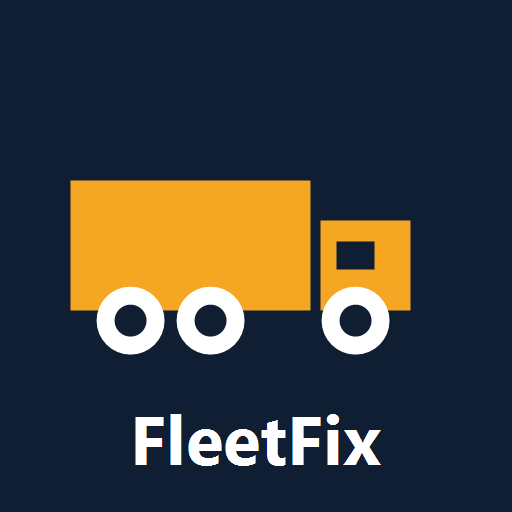
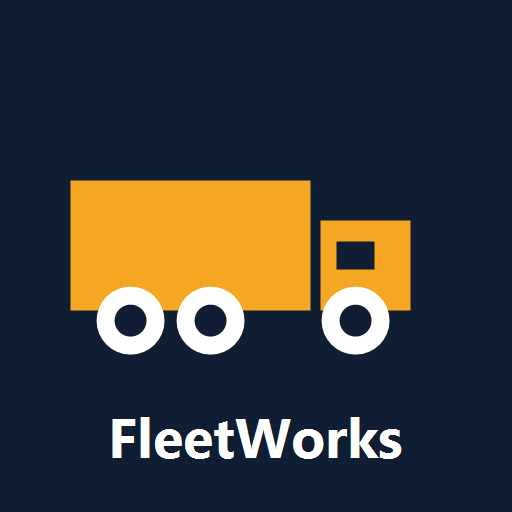
Rebrand FleetFix to FleetWorks Private Limited
Site copy, logo wordmark, icons, emails (fleetworks.in), booking
reference prefixes (FW-/FWV-), manifest and service worker cache.

Changed region(s): [[0.2188, 0.8125, 0.7812, 0.9375]]

diff --git a/partner.html b/partner.html
@@ -3,8 +3,8 @@
 <head>
   <meta charset="UTF-8" />
   <meta name="viewport" content="width=device-width, initial-scale=1.0" />
-  <title>Partner With FleetFix — Vendor &amp; Workshop Onboarding</title>
-  <meta name="description" content="Register your heavy vehicle workshop, tyre shop, battery dealership or mobile mechanic service with FleetFix. Get more jobs, guaranteed payouts and fleet contracts." />
+  <title>Partner With FleetWorks — Vendor &amp; Workshop Onboarding</title>
+  <meta name="description" content="Register your heavy vehicle workshop, tyre shop, battery dealership or mobile mechanic service with FleetWorks. Get more jobs, guaranteed payouts and fleet contracts." />
   <link rel="preconnect" href="https://fonts.googleapis.com" />
   <link rel="preconnect" href="https://fonts.gstatic.com" crossorigin />
   <link href="https://fonts.googleapis.com/css2?family=Poppins:wght@400;500;600;700;800&display=swap" rel="stylesheet" />
@@ -28,7 +28,7 @@
     <div class="container nav-inner">
       <a href="index.html" class="logo">
         <svg viewBox="0 0 24 24" width="34" height="34" fill="none" stroke="currentColor" stroke-width="1.8" stroke-linecap="round" stroke-linejoin="round"><path d="M1 8h12v8H1z"/><path d="M13 10h4l3 3v3h-7"/><circle cx="5.5" cy="17.5" r="1.8"/><circle cx="17.5" cy="17.5" r="1.8"/></svg>
-        <span>Fleet<em>Fix</em></span>
+        <span>Fleet<em>Works</em></span>
       </a>
       <nav class="nav-links" id="navLinks">
         <a href="index.html#services">Services</a>
@@ -53,7 +53,7 @@
     <div class="container hero-inner">
       <div class="hero-text">
         <span class="badge">🤝 500+ Workshops Already Onboard</span>
-        <h1>Grow Your Workshop with <span class="accent">FleetFix</span></h1>
+        <h1>Grow Your Workshop with <span class="accent">FleetWorks</span></h1>
         <p>Join India's fastest-growing heavy vehicle service network. Get a steady stream of trucks, buses and fleet contracts — we bring the customers, you do the work.</p>
         <ul class="hero-points">
           <li>✅ 30+ Jobs/Month on Average</li>
@@ -315,7 +315,7 @@
             </label>
             <label class="consent">
               <input type="checkbox" name="consent" required />
-              <span>I confirm the details are accurate and agree to FleetFix's partner terms, service-quality standards and commission structure.</span>
+              <span>I confirm the details are accurate and agree to FleetWorks's partner terms, service-quality standards and commission structure.</span>
             </label>
             <p class="field-error" id="consentError" hidden>Please accept the partner terms to continue.</p>
             <div class="step-actions">
@@ -354,11 +354,11 @@
       <div class="faq-list">
         <details>
           <summary>How much does it cost to join?</summary>
-          <p>Nothing. Registration and onboarding are free. FleetFix earns a commission (typically 10–15%) only on jobs we bring you — no job, no fee.</p>
+          <p>Nothing. Registration and onboarding are free. FleetWorks earns a commission (typically 10–15%) only on jobs we bring you — no job, no fee.</p>
         </details>
         <details>
           <summary>How do I receive jobs?</summary>
-          <p>Through the FleetFix Partner app. You get a job alert with vehicle details and issue description; accept it, share your quote, and once the customer approves, the job is yours.</p>
+          <p>Through the FleetWorks Partner app. You get a job alert with vehicle details and issue description; accept it, share your quote, and once the customer approves, the job is yours.</p>
         </details>
         <details>
           <summary>When do I get paid?</summary>
@@ -381,7 +381,7 @@
     <div class="container cta-inner">
       <div>
         <h2>Your workshop. Our customers.</h2>
-        <p>Join 500+ partners already growing with FleetFix.</p>
+        <p>Join 500+ partners already growing with FleetWorks.</p>
       </div>
       <div class="cta-actions">
         <a href="#register" class="btn btn-light">Register Free</a>
@@ -395,7 +395,7 @@
     <div class="container footer-grid">
       <div>
         <a href="index.html" class="logo footer-logo">
-          <span>Fleet<em>Fix</em></span>
+          <span>Fleet<em>Works</em></span>
         </a>
         <p>India's First AI/ML-powered vehicle maintenance &amp; management system. Repairs, expense analytics and predictive maintenance for trucks, buses and commercial fleets.</p>
       </div>
@@ -425,13 +425,13 @@
       <div>
         <h4>Contact</h4>
         <a href="tel:[phone redacted]">📞 [phone redacted]</a>
-        <a href="mailto:[email redacted]">✉️ [email redacted]</a>
+        <a href="mailto:[email redacted]">✉️ [email redacted]</a>
         <p class="muted">Mon–Sat, 9 AM – 7 PM</p>
       </div>
     </div>
     <div class="footer-bottom">
       <div class="container">
-        <span>© 2026 FleetFix. All rights reserved.</span>
+        <span>© 2026 FleetWorks Private Limited. All rights reserved.</span>
         <span>Terms · Privacy · Partner Agreement</span>
       </div>
     </div>

diff --git a/index.html b/index.html
@@ -3,7 +3,7 @@
 <head>
   <meta charset="UTF-8" />
   <meta name="viewport" content="width=device-width, initial-scale=1.0" />
-  <title>FleetFix — India's First AI/ML Vehicle Maintenance &amp; Management System</title>
+  <title>FleetWorks — India's First AI/ML Vehicle Maintenance &amp; Management System</title>
   <meta name="description" content="India's First AI/ML-powered vehicle maintenance and management system. Book truck, bus and fleet services, track expenses monthly/vehicle/part-wise with industry benchmarks, and predict repairs before parts fail." />
   <link rel="preconnect" href="https://fonts.googleapis.com" />
   <link rel="preconnect" href="https://fonts.gstatic.com" crossorigin />
@@ -28,7 +28,7 @@
     <div class="container nav-inner">
       <a href="#" class="logo">
         <svg viewBox="0 0 24 24" width="34" height="34" fill="none" stroke="currentColor" stroke-width="1.8" stroke-linecap="round" stroke-linejoin="round"><path d="M1 8h12v8H1z"/><path d="M13 10h4l3 3v3h-7"/><circle cx="5.5" cy="17.5" r="1.8"/><circle cx="17.5" cy="17.5" r="1.8"/></svg>
-        <span>Fleet<em>Fix</em></span>
+        <span>Fleet<em>Works</em></span>
       </a>
       <nav class="nav-links" id="navLinks">
         <a href="#services">Services</a>
@@ -196,7 +196,7 @@
       <div class="ai-strip" id="ai-features">
         <div>
           <h3>🤖 The AI/ML Layer Every Fleet Needs</h3>
-          <p>FleetFix is more than repairs — it's India's first AI/ML vehicle maintenance and management system. Track expenses monthly-wise, vehicle-wise and part-wise, benchmarked against your own fleet and industry averages. Our ML models learn your service history and part lifespans to predict what you'll spend before the part fails.</p>
+          <p>FleetWorks is more than repairs — it's India's first AI/ML vehicle maintenance and management system. Track expenses monthly-wise, vehicle-wise and part-wise, benchmarked against your own fleet and industry averages. Our ML models learn your service history and part lifespans to predict what you'll spend before the part fails.</p>
           <div class="ai-chip-row">
             <span class="ai-chip">📊 Expense Analytics</span>
             <span class="ai-chip">⚖️ Industry Benchmarking</span>
@@ -216,7 +216,7 @@
   <section class="section alt" id="how-it-works">
     <div class="container">
       <div class="section-head">
-        <h2>How FleetFix Works</h2>
+        <h2>How FleetWorks Works</h2>
         <p>From quote to delivery in four simple steps.</p>
       </div>
       <div class="steps">
@@ -339,7 +339,7 @@
       <div class="testimonials">
         <blockquote class="testimonial">
           <div class="stars">★★★★★</div>
-          <p>"My truck broke down near Panipat at 2 AM. FleetFix's mechanic reached in under an hour and got the fuel pump sorted on the spot. Lifesaver for transporters."</p>
+          <p>"My truck broke down near Panipat at 2 AM. FleetWorks's mechanic reached in under an hour and got the fuel pump sorted on the spot. Lifesaver for transporters."</p>
           <footer><strong>Rajinder Singh</strong><span>Owner, 12-truck fleet · Delhi NCR</span></footer>
         </blockquote>
         <blockquote class="testimonial">
@@ -364,7 +364,7 @@
       </div>
       <div class="faq-list">
         <details>
-          <summary>How does FleetFix pricing work?</summary>
+          <summary>How does FleetWorks pricing work?</summary>
           <p>You get an estimated price instantly when you book. After physical inspection, the workshop shares a final itemised quote — work starts only after your approval. No hidden charges.</p>
         </details>
         <details>
@@ -406,7 +406,7 @@
     <div class="container footer-grid">
       <div>
         <a href="#" class="logo footer-logo">
-          <span>Fleet<em>Fix</em></span>
+          <span>Fleet<em>Works</em></span>
         </a>
         <p>India's First AI/ML-powered vehicle maintenance &amp; management system. Repairs, expense analytics and predictive maintenance for trucks, buses and commercial fleets.</p>
       </div>
@@ -438,13 +438,13 @@
       <div>
         <h4>Contact</h4>
         <a href="tel:[phone redacted]">📞 [phone redacted]</a>
-        <a href="mailto:[email redacted]">✉️ [email redacted]</a>
+        <a href="mailto:[email redacted]">✉️ [email redacted]</a>
         <p class="muted">Mon–Sun, 24x7 support</p>
       </div>
     </div>
     <div class="footer-bottom">
       <div class="container">
-        <span>© 2026 FleetFix. All rights reserved.</span>
+        <span>© 2026 FleetWorks Private Limited. All rights reserved.</span>
         <span>Terms · Privacy · Refund Policy</span>
       </div>
     </div>

diff --git a/dashboard.html b/dashboard.html
@@ -3,7 +3,7 @@
 <head>
   <meta charset="UTF-8" />
   <meta name="viewport" content="width=device-width, initial-scale=1.0" />
-  <title>FleetFix AI Dashboard — Expense Analytics &amp; Predictive Maintenance</title>
+  <title>FleetWorks AI Dashboard — Expense Analytics &amp; Predictive Maintenance</title>
   <meta name="description" content="AI/ML-powered fleet expense analytics: monthly, vehicle-wise and part-wise spend with fleet and industry benchmarking, plus predictive part replacement and expense forecasts." />
   <link rel="preconnect" href="https://fonts.googleapis.com" />
   <link rel="preconnect" href="https://fonts.gstatic.com" crossorigin />
@@ -28,7 +28,7 @@
     <div class="container nav-inner">
       <a href="index.html" class="logo">
         <svg viewBox="0 0 24 24" width="34" height="34" fill="none" stroke="currentColor" stroke-width="1.8" stroke-linecap="round" stroke-linejoin="round"><path d="M1 8h12v8H1z"/><path d="M13 10h4l3 3v3h-7"/><circle cx="5.5" cy="17.5" r="1.8"/><circle cx="17.5" cy="17.5" r="1.8"/></svg>
-        <span>Fleet<em>Fix</em></span>
+        <span>Fleet<em>Works</em></span>
       </a>
       <nav class="nav-links" id="navLinks">
         <a href="index.html#services">Services</a>
@@ -207,7 +207,7 @@
   <footer class="footer">
     <div class="container footer-grid">
       <div>
-        <a href="index.html" class="logo footer-logo"><span>Fleet<em>Fix</em></span></a>
+        <a href="index.html" class="logo footer-logo"><span>Fleet<em>Works</em></span></a>
         <p>India's First AI/ML-powered vehicle maintenance &amp; management system for trucks, buses and commercial fleets.</p>
       </div>
       <div>
@@ -220,12 +220,12 @@
       <div>
         <h4>Contact</h4>
         <a href="tel:[phone redacted]">📞 [phone redacted]</a>
-        <a href="mailto:[email redacted]">✉️ [email redacted]</a>
+        <a href="mailto:[email redacted]">✉️ [email redacted]</a>
       </div>
     </div>
     <div class="footer-bottom">
       <div class="container">
-        <span>© 2026 FleetFix. All rights reserved.</span>
+        <span>© 2026 FleetWorks Private Limited. All rights reserved.</span>
         <span>Terms · Privacy</span>
       </div>
     </div>

diff --git a/js/dashboard.js b/js/dashboard.js
@@ -1,4 +1,4 @@
-/* ============ FleetFix — dashboard.js ============
+/* ============ FleetWorks — dashboard.js ============
    AI/ML fleet expense analytics:
    - monthly / vehicle-wise / part-wise aggregation
    - fleet-average and industry-average benchmarking
@@ -511,7 +511,7 @@ function exportData() {
   const blob = new Blob([JSON.stringify(db, null, 2)], { type: "application/json" });
   const a = document.createElement("a");
   a.href = URL.createObjectURL(blob);
-  a.download = "fleetfix-data.json";
+  a.download = "fleetworks-data.json";
   a.click();
   URL.revokeObjectURL(a.href);
 }

diff --git a/js/main.js b/js/main.js
@@ -1,4 +1,4 @@
-/* ============ FleetFix — main.js ============ */
+/* ============ FleetWorks — main.js ============ */
 
 // ---------- Navbar ----------
 const navbar = document.getElementById("navbar");
@@ -84,7 +84,7 @@ document.querySelectorAll('input[name="phone"]').forEach((input) => {
 });
 
 function makeRef() {
-  return "FF-" + Date.now().toString(36).toUpperCase().slice(-6);
+  return "FW-" + Date.now().toString(36).toUpperCase().slice(-6);
 }
 
 function saveLead(data) {

diff --git a/js/partner.js b/js/partner.js
@@ -1,4 +1,4 @@
-/* ============ FleetFix — partner.js (vendor onboarding) ============ */
+/* ============ FleetWorks — partner.js (vendor onboarding) ============ */
 
 // ---------- Navbar ----------
 const navbar = document.getElementById("navbar");
@@ -108,7 +108,7 @@ vendorForm.elements.pincode.addEventListener("input", (e) => {
 
 // ---------- Submission ----------
 function makeVendorRef() {
-  return "FFV-" + Date.now().toString(36).toUpperCase().slice(-6);
+  return "FWV-" + Date.now().toString(36).toUpperCase().slice(-6);
 }
 
 function getVendors() {

diff --git a/sw.js b/sw.js
@@ -1,5 +1,5 @@
-/* FleetFix service worker — network-first with offline fallback cache */
-const CACHE = "fleetfix-v2";
+/* FleetWorks service worker — network-first with offline fallback cache */
+const CACHE = "fleetworks-v3";
 const CORE = [
   "./",
   "./index.html",

diff --git a/css/style.css b/css/style.css
@@ -1,4 +1,4 @@
-/* ============ FleetFix — style.css ============ */
+/* ============ FleetWorks — style.css ============ */
 :root {
   --navy: #0f1e33;
   --navy-2: #16294a;